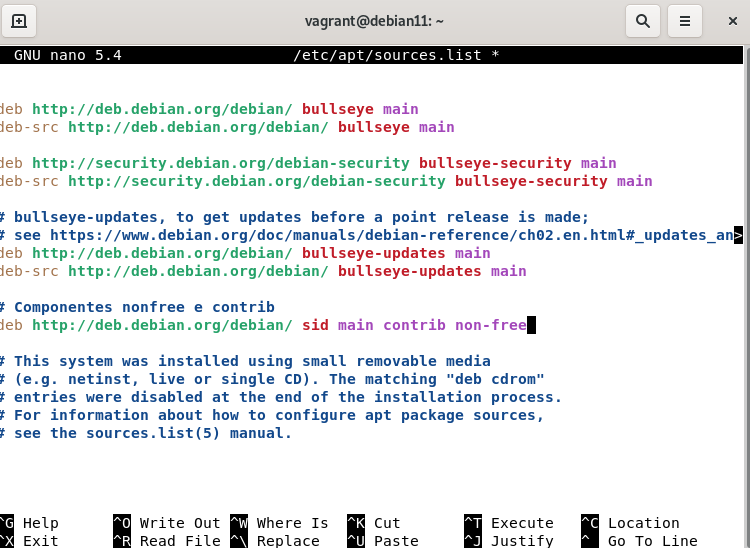
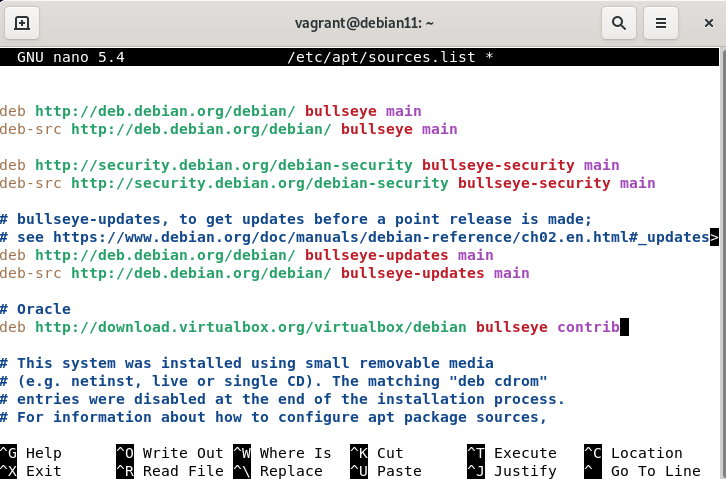
Alterado o arquivo readme.md

diff --git a/CCNP 350-401 ENCOR/02 - Virtualization/05 - Instalacao Hypervisor Tipo 2/04-VirtualBox em Linux/README.md b/CCNP 350-401 ENCOR/02 - Virtualization/05 - Instalacao Hypervisor Tipo 2/04-VirtualBox em Linux/README.md
@@ -12,8 +12,10 @@ Como podemos notar atráves do comando ip, agora temos quatro placas de rede fí
 
 ![DEPENDÊNCIAS](Imagens/02-dependencias.png)<br></br>
 
-Feito isso iremos atualizar a lista de pacotes do sistema. <br></br>
+Feito isso precisamos baixar as chaves de criptografia dos repositórios. **OBS:** desde 2019 foi removido dos repositórios stable oficiais e só existe nos repositórios Unstable. Para contornar isso, então vamos baixar direto do fabricante, a oracle.  <br></br>
 
+> - **sudo wget -q https://www.virtualbox.org/download/oracle_vbox_2016.asc -O /etc/apt/trusted.gpg.d/virtualbox-key.asc**
+> - **sudo wget -q https://www.virtualbox.org/download/oracle_vbox.asc -O /etc/apt/trusted.gpg.d/virtualbox-key-2.asc**
 > - **sudo apt update**
 
 ![UPDATE](Imagens/03-update.png) <br></br>
